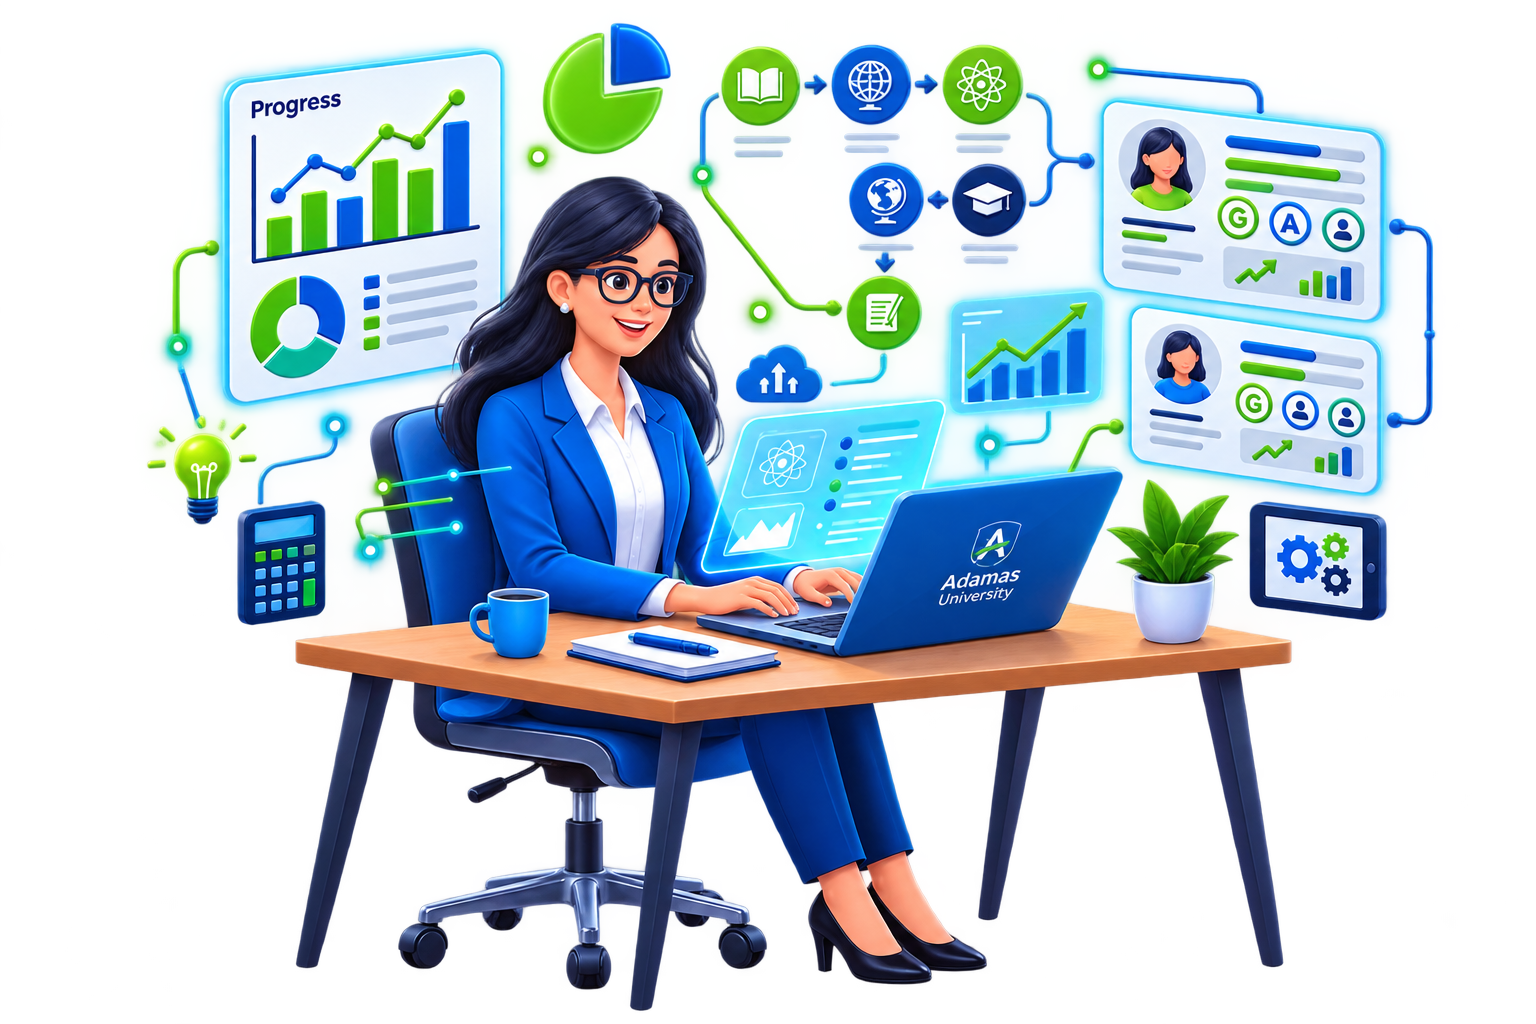
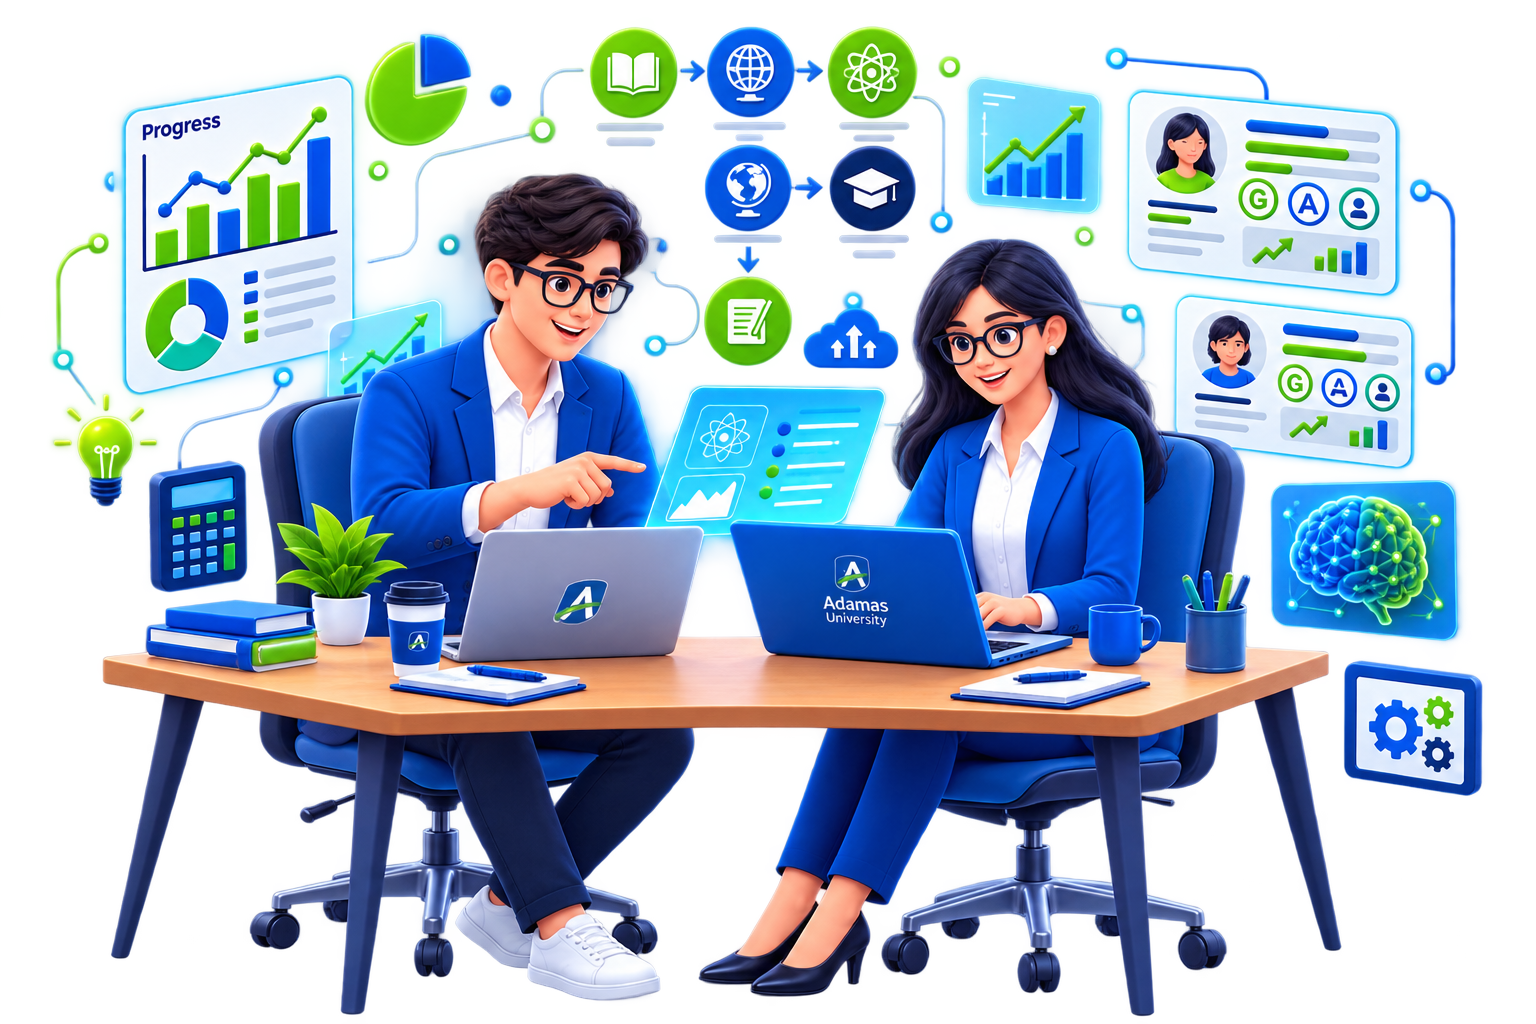
fix: disable weekend attendance buttons, increase student pagination to 100, strip +91 from mobile export, fit chatbox in single screen, enable student selection in communications, and apply Times/Cambria serif font in PDF generator

diff --git a/frontend/src/pages/CommunicationsPage.tsx b/frontend/src/pages/CommunicationsPage.tsx
@@ -202,25 +202,31 @@ export const CommunicationsPage: React.FC = () => {
               return (
                 <div
                   key={student.id}
-                  onClick={() => sendMode === 'selected' && handleToggleStudent(student.id)}
-                  className={`p-3 rounded-xl flex items-center justify-between transition-colors ${
-                    sendMode === 'selected' ? 'cursor-pointer hover:bg-slate-50 dark:hover:bg-slate-800/50' : ''
-                  } ${isSelected ? 'bg-blue-50/50 dark:bg-blue-950/30' : ''}`}
+                  onClick={() => {
+                    if (sendMode !== 'selected') setSendMode('selected');
+                    handleToggleStudent(student.id);
+                  }}
+                  className={`p-3 rounded-xl flex items-center justify-between transition-colors cursor-pointer hover:bg-slate-50 dark:hover:bg-slate-800/50 ${
+                    isSelected ? 'bg-blue-50 dark:bg-blue-950/40 border border-blue-200 dark:border-blue-800' : ''
+                  }`}
                 >
                   <div className="space-y-0.5">
                     <p className="text-xs font-bold text-slate-900 dark:text-white">{student.name || student.full_name}</p>
                     <p className="text-[10px] text-slate-500">{student.roll_number}</p>
-                    <p className="text-[10px] text-adamas-blue font-mono">{student.email}</p>
+                    <p className="text-[10px] text-[#005BAC] dark:text-[#8CC63F] font-mono">{student.email}</p>
                   </div>
-                  {sendMode === 'selected' && (
-                    <input
-                      type="checkbox"
-                      checked={isSelected}
-                      onChange={() => handleToggleStudent(student.id)}
-                      className="w-4 h-4 rounded text-adamas-blue focus:ring-adamas-blue"
-                    />
-                  )}
+                  <input
+                    type="checkbox"
+                    checked={isSelected}
+                    onChange={(e) => {
+                      e.stopPropagation();
+                      if (sendMode !== 'selected') setSendMode('selected');
+                      handleToggleStudent(student.id);
+                    }}
+                    className="w-4 h-4 rounded text-[#005BAC] focus:ring-[#005BAC] cursor-pointer"
+                  />
                 </div>
+
               );
             })}
           </div>

diff --git a/frontend/src/pages/AttendancePage.tsx b/frontend/src/pages/AttendancePage.tsx
@@ -94,27 +94,30 @@ export const AttendancePage: React.FC = () => {
         <div className="flex flex-wrap items-center gap-2.5 relative z-10">
           <button
             onClick={() => handleBulkMark('present')}
-            className="px-4 py-2 bg-emerald-600 hover:bg-emerald-700 text-white text-xs font-black rounded-xl transition-all shadow-md active:scale-95 flex items-center gap-1.5 border border-emerald-400/50"
+            disabled={isWeekendClosed}
+            className="px-4 py-2 bg-emerald-600 hover:bg-emerald-700 text-white text-xs font-black rounded-xl transition-all shadow-md active:scale-95 flex items-center gap-1.5 border border-emerald-400/50 disabled:opacity-40 disabled:cursor-not-allowed"
           >
             <CheckCircle2 className="w-4 h-4 text-emerald-200" />
             Mark All Present
           </button>
           <button
             onClick={() => handleBulkMark('absent')}
-            className="px-4 py-2 bg-rose-600 hover:bg-rose-700 text-white text-xs font-black rounded-xl transition-all shadow-md active:scale-95 flex items-center gap-1.5 border border-rose-400/50"
+            disabled={isWeekendClosed}
+            className="px-4 py-2 bg-rose-600 hover:bg-rose-700 text-white text-xs font-black rounded-xl transition-all shadow-md active:scale-95 flex items-center gap-1.5 border border-rose-400/50 disabled:opacity-40 disabled:cursor-not-allowed"
           >
             <XCircle className="w-4 h-4 text-rose-200" />
             Mark All Absent
           </button>
           <button
             onClick={handleSubmit}
-            disabled={saving}
-            className="px-5 py-2 bg-slate-950 hover:bg-slate-900 text-white text-xs font-black rounded-xl transition-all shadow-lg active:scale-95 disabled:opacity-50 flex items-center gap-1.5 border border-slate-700"
+            disabled={saving || isWeekendClosed}
+            className="px-5 py-2 bg-slate-950 hover:bg-slate-900 text-white text-xs font-black rounded-xl transition-all shadow-lg active:scale-95 disabled:opacity-40 disabled:cursor-not-allowed flex items-center gap-1.5 border border-slate-700"
           >
             <Send className="w-4 h-4 text-[#8CC63F]" />
             {saving ? 'Saving...' : 'Submit Attendance'}
           </button>
         </div>
+
 
 
 

diff --git a/frontend/src/pages/StudentsPage.tsx b/frontend/src/pages/StudentsPage.tsx
@@ -33,15 +33,16 @@ export const StudentsPage: React.FC = () => {
     api.get('/students', {
       params: {
         class_id: activeClass?.id,
-        search: search || undefined
+        search: search || undefined,
+        limit: 100,
       }
     })
       .then(res => {
         const raw = res.data.students || [];
-        // Mock phone numbers if missing
+        // Clean mobile numbers (10 digits without +91 sign)
         const enriched = raw.map((s: any, idx: number) => ({
           ...s,
-          phone: s.phone || `+91 9830${Math.floor(100000 + idx * 12345)}`,
+          phone: s.phone ? String(s.phone).replace(/^\+91\s*/, '').trim() : `9830${Math.floor(100000 + idx * 12345)}`,
         }));
         setStudents(enriched);
         setTotal(res.data.total || 0);
@@ -59,7 +60,7 @@ export const StudentsPage: React.FC = () => {
 
   const handleExportExcel = () => {
     if (!students.length || !activeClass) return;
-    const headers = ['Roll Number', 'Student Name', 'University Email', 'Phone Number', 'Year / Section', 'Attendance %', 'Average Score', 'CGPA', 'Risk Level'];
+    const headers = ['Roll Number', 'Student Name', 'University Email', 'Mobile Number', 'Year / Section', 'Attendance %', 'Average Score', 'CGPA', 'Risk Level'];
     const rows = sortedStudents.map(s => [
       s.roll_number,
       s.full_name,
@@ -74,6 +75,7 @@ export const StudentsPage: React.FC = () => {
     downloadExcelSheet(`${activeClass.course_code}_Student_Roster`, headers, rows);
     toast.success('Downloaded Excel CSV Roster', `Exported data for ${sortedStudents.length} students.`);
   };
+
 
   const handleDownloadReport = () => {
     if (!students.length || !activeClass) return;

diff --git a/frontend/src/utils/pdfGenerator.ts b/frontend/src/utils/pdfGenerator.ts
@@ -29,13 +29,13 @@ function addHeader(doc: jsPDF, title: string, subtitle: string) {
 
   // University name
   doc.setFontSize(18);
-  doc.setFont('helvetica', 'bold');
+  doc.setFont('times', 'bold');
   doc.setTextColor(...COLORS.primary);
   doc.text('ADAMAS UNIVERSITY', pageWidth / 2, 22, { align: 'center' });
 
   // Subtitle line
   doc.setFontSize(8);
-  doc.setFont('helvetica', 'normal');
+  doc.setFont('times', 'normal');
   doc.setTextColor(...COLORS.gray);
   doc.text('School of Engineering & Technology • Computer Science & Engineering', pageWidth / 2, 28, { align: 'center' });
 
@@ -46,17 +46,18 @@ function addHeader(doc: jsPDF, title: string, subtitle: string) {
 
   // Document title
   doc.setFontSize(14);
-  doc.setFont('helvetica', 'bold');
+  doc.setFont('times', 'bold');
   doc.setTextColor(...COLORS.dark);
   doc.text(title, pageWidth / 2, 42, { align: 'center' });
 
   // Document subtitle
   if (subtitle) {
     doc.setFontSize(9);
-    doc.setFont('helvetica', 'normal');
+    doc.setFont('times', 'normal');
     doc.setTextColor(...COLORS.gray);
     doc.text(subtitle, pageWidth / 2, 48, { align: 'center' });
   }
+
 
   return 54; // Y position after header
 }

diff --git a/frontend/src/pages/AIPage.tsx b/frontend/src/pages/AIPage.tsx
@@ -191,9 +191,10 @@ export const AIPage: React.FC = () => {
 
   return (
     <div className="max-w-7xl mx-auto w-full">
-      <div className="flex h-[calc(100vh-7.5rem)] bg-white dark:bg-slate-900 rounded-2xl border border-slate-200 dark:border-slate-800 shadow-md overflow-hidden">
+      <div className="flex h-[calc(100vh-6.5rem)] bg-white dark:bg-slate-900 rounded-xl border border-slate-200 dark:border-slate-800 shadow-md overflow-hidden -my-3">
         {/* ─── Left Sidebar: Conversation History ─── */}
         <div className="w-64 bg-slate-50 dark:bg-slate-950 border-r border-slate-200 dark:border-slate-800 p-3 hidden md:flex flex-col justify-between flex-shrink-0">
+
 
 
 

diff --git a/backend/app/api/v1/routes/students.py b/backend/app/api/v1/routes/students.py
@@ -39,8 +39,9 @@ def list_students(
     search: str | None = Query(None),
     risk: str | None = Query(None),
     page: int = Query(1, ge=1),
-    limit: int = Query(50, ge=1, le=100),
+    limit: int = Query(100, ge=1, le=200),
     teacher: Teacher = Depends(get_current_teacher),
+
     db: Session = Depends(get_db),
 ):
     """List students with filtering, search, and pagination."""
